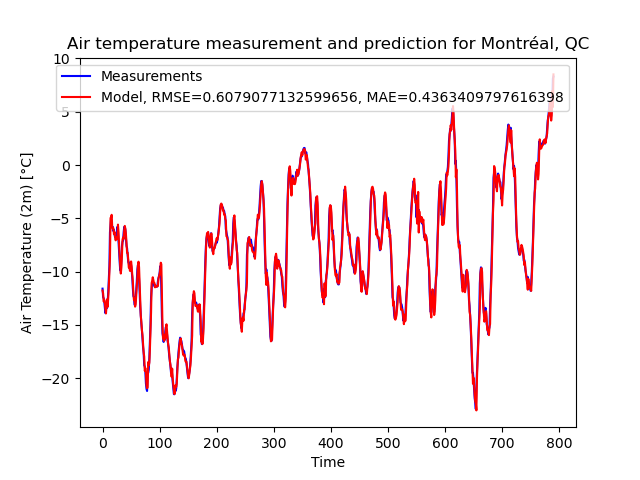
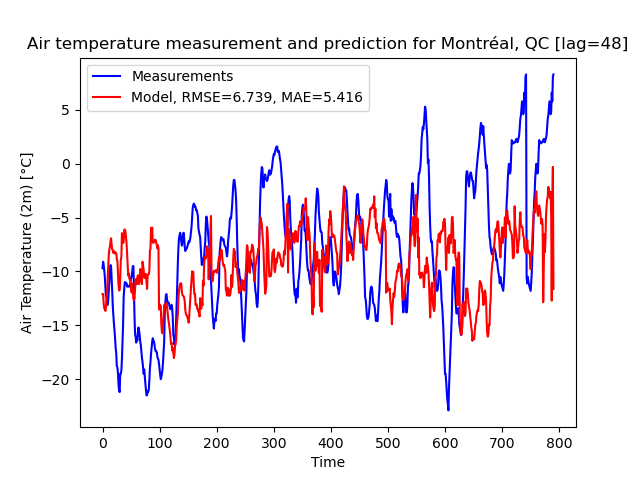
updated model + results file

diff --git a/code/project_paul.py b/code/project_paul.py
@@ -110,6 +110,17 @@ def add_lags(df: pd.DataFrame, col: str, lags: List[int]) -> pd.DataFrame:
         if L <= 0:
             continue
         df[f"{col}_lag{L}"] = df[col].shift(L)
+        for i in range(L):
+            df.iloc[i, df.columns.get_loc(f"{col}_lag{L}")] = df.iloc[0][col] #add the staring values
+    return df
+#add future lag
+def add_future_lag(df: pd.DataFrame, col: str, lags: List[int]) -> pd.DataFrame:
+    for L in lags:
+        if L >= 0:
+            continue
+        df[f"{col}_lag{L}"] = df[col].shift(L)
+        for i in range(np.abs(L)):
+            df.iloc[-1-i, df.columns.get_loc(f"{col}_lag{L}")] = df.iloc[-1-i][col] #add the staring values
     return df
 
 # TODO: Students you might find this function useful
@@ -148,67 +159,83 @@ if __name__ == "__main__":
 
     n = df.shape[0] #get dataframe size
 
-    #add lags for Temperature
-    df = add_lags(df, 'T', [1, 2, 3])
-    df['T_lag1'][0] = df['T'][0]
-    df['T_lag2'][0] = df['T'][0]
-    df['T_lag2'][1] = df['T'][1]
-    df['T_lag3'][0] = df['T'][0]
-    df['T_lag3'][1] = df['T'][1]
-    df['T_lag3'][2] = df['T'][2]
-    #split dataframe into training and control data
-    df_train = df[:n//2].copy()
-    df_control = df[n//2+1:].copy()
-    #print to verify
-    print(df_train.shape)
-    print(df_control.shape)
-    #write an Ax=b problem
-    y = np.asarray(df_train['T']) #what we try to predict
-    print(df_train)
-    params = np.asarray(df_train[df_train.columns.drop('T')]) #prediction parameters
-    print(y)
-    print(params)
-    print(y[0])
-    A = params
-    #solve the least square problem with SVD
-    U, S, Vh = np.linalg.svd(A, full_matrices=False)
-    sigma_inv = np.diag(np.power(S, -1))
-    x = Vh.T@sigma_inv@U.T@y
-    #print(x)
-    #apply it to the train data
-    y_fit = A@x
-    #compute errors
-    rmse = np.sqrt(np.mean((y_fit - y)**2))
-    mae = np.mean(np.abs(y_fit - y))
-    #plot results
-    plt.plot(y, label='Measurements', color='blue')
-    plt.plot(y_fit, label=f'Model, RMSE={rmse}, MAE={mae}', color='red')
-    plt.legend()
-    plt.ylabel('Air Temperature (2m) [°C]')
-    plt.xlabel('Time')
-    plt.title('Air temperature measurement and prediction for Montréal, QC')
-    plt.savefig('plots/leastsquares.png')
-    plt.grid(True)
-    plt.show()
-    #minimum of n//2 and n//2+1
-    m = min(df_train.shape[0], df_control.shape[0])
-    #define new A matrix
-    params_prediction = np.asarray(df_control[df_control.columns.drop('T')])[0:m,:]
-    A_pred = params_prediction
-    y_pred = np.asarray(df_control['T'])[0:m]
-    #apply model to control data
-    y_pred_fit = A_pred@x
-    y_pred_fit = y_pred_fit[0:m]
-    #compute new error
-    rmse_pred = np.sqrt(np.mean((y_pred_fit - y_pred)**2))
-    mae_pred = np.mean(np.abs(y_pred_fit - y_pred))
-    #plot everything
-    plt.plot(y_pred, label='Measurements', color='blue')
-    plt.plot(y_pred_fit, label=f'Model, RMSE={rmse_pred}, MAE={mae_pred}', color='red')
-    plt.legend()
-    plt.ylabel('Air Temperature (2m) [°C]')
-    plt.xlabel('Time')
-    plt.title('Air temperature measurement and prediction for Montréal, QC')
-    plt.savefig('plots/leastsquares_prediction.png')
-    plt.grid(True)
-    plt.show()
+    lags = np.array([1, 3, 6, 12, 24, 48])
+    results: dict = {'Scenario':[], 'RMSE (train)':[], 'MAE (train)':[], 'RMSE (control)':[], 'MAE (control)':[], 'RMSE change [%]':[], 'MAE change [%]':[], 'Maximum error (control)':[]} #create results dictionary
+    for lag in lags:
+        print(f'Running model for h={lag}h')
+        #add lags for Temperature
+        df_new = add_lags(df.copy(), 'T', [1, 2, 3, 4, 5, 6])
+        #df_new = add_lags(df.copy(), 'P', [1, 2, 3])
+        df_new = add_future_lag(df_new, 'T', [-lag])
+        #print(df_new)
+        #split dataframe into training and control data
+        df_train = df_new[:n//2].copy()
+        df_control = df_new[n//2+1:].copy()
+        #print to verify
+        #print(df_train.shape)
+        #print(df_control.shape)
+        #write an Ax=b problem
+        y = np.asarray(df_train[f'T_lag-{lag}']) #what we try to predict
+        #print(df_train)
+        params = np.asarray(df_train[df_train.columns.drop(f'T_lag-{lag}')]) #prediction parameters
+        #print(y)
+        #print(params)
+        #print(y[0])
+        A = params
+        #solve the least square problem with SVD
+        U, S, Vh = np.linalg.svd(A, full_matrices=False)
+        sigma_inv = np.diag(np.power(S, -1))
+        x = Vh.T@sigma_inv@U.T@y
+        #print(x)
+        #apply it to the train data
+        y_fit = A@x
+        y_fit[0] = y_fit[1]
+        #compute errors
+        rmse = np.sqrt(np.mean((y_fit - y)**2))
+        mae = np.mean(np.abs(y_fit - y))
+        #plot results
+        plt.plot(y, label='Measurements', color='blue')
+        plt.plot(y_fit, label=f'Model, RMSE={np.round(rmse, 3)}, MAE={np.round(mae, 3)}', color='red')
+        plt.legend()
+        plt.ylabel('Air Temperature (2m) [°C]')
+        plt.xlabel('Time')
+        plt.title(f'Air temperature measurement and prediction for Montréal, QC [lag={lag}]')
+        plt.savefig('plots/leastsquares.png')
+        plt.grid(True)
+        plt.show()
+        #minimum of n//2 and n//2+1
+        m = min(df_train.shape[0], df_control.shape[0])
+        #define new A matrix
+        params_prediction = np.asarray(df_control[df_control.columns.drop(f'T_lag-{lag}')])[0:m,:]
+        A_pred = params_prediction
+        y_pred = np.asarray(df_control[f'T_lag-{lag}'])[0:m]
+        #apply model to control data
+        y_pred_fit = A_pred@x
+        y_pred_fit = y_pred_fit[0:m]
+        y_pred_fit[0] = y_pred_fit[1]
+        #compute new error
+        rmse_pred = np.sqrt(np.mean((y_pred_fit - y_pred)**2))
+        mae_pred = np.mean(np.abs(y_pred_fit - y_pred))
+        #plot everything
+        plt.plot(y_pred, label='Measurements', color='blue')
+        plt.plot(y_pred_fit, label=f'Model, RMSE={np.round(rmse_pred, 3)}, MAE={np.round(mae_pred, 3)}', color='red')
+        plt.legend()
+        plt.ylabel('Air Temperature (2m) [°C]')
+        plt.xlabel('Time')
+        plt.title(f'Air temperature measurement and prediction for Montréal, QC [lag={lag}]')
+        plt.savefig('plots/leastsquares_prediction.png')
+        plt.grid(True)
+        plt.show()
+        results["Scenario"].append(lag)
+        results["RMSE (train)"].append(rmse)
+        results["RMSE (control)"].append(rmse_pred)
+        results["MAE (train)"].append(mae)
+        results["MAE (control)"].append(mae_pred)
+        results["RMSE change [%]"].append((rmse_pred-rmse)/rmse*100)
+        results["MAE change [%]"].append((mae_pred-mae)/mae*100)
+        results["Maximum error (control)"].append(np.max(np.abs(y_pred_fit-y_pred)))
+    results_df = pd.DataFrame(results)
+    print("Results summary:")
+    print(results_df)
+    results_df.to_csv("results/models_summary.csv")
+    
